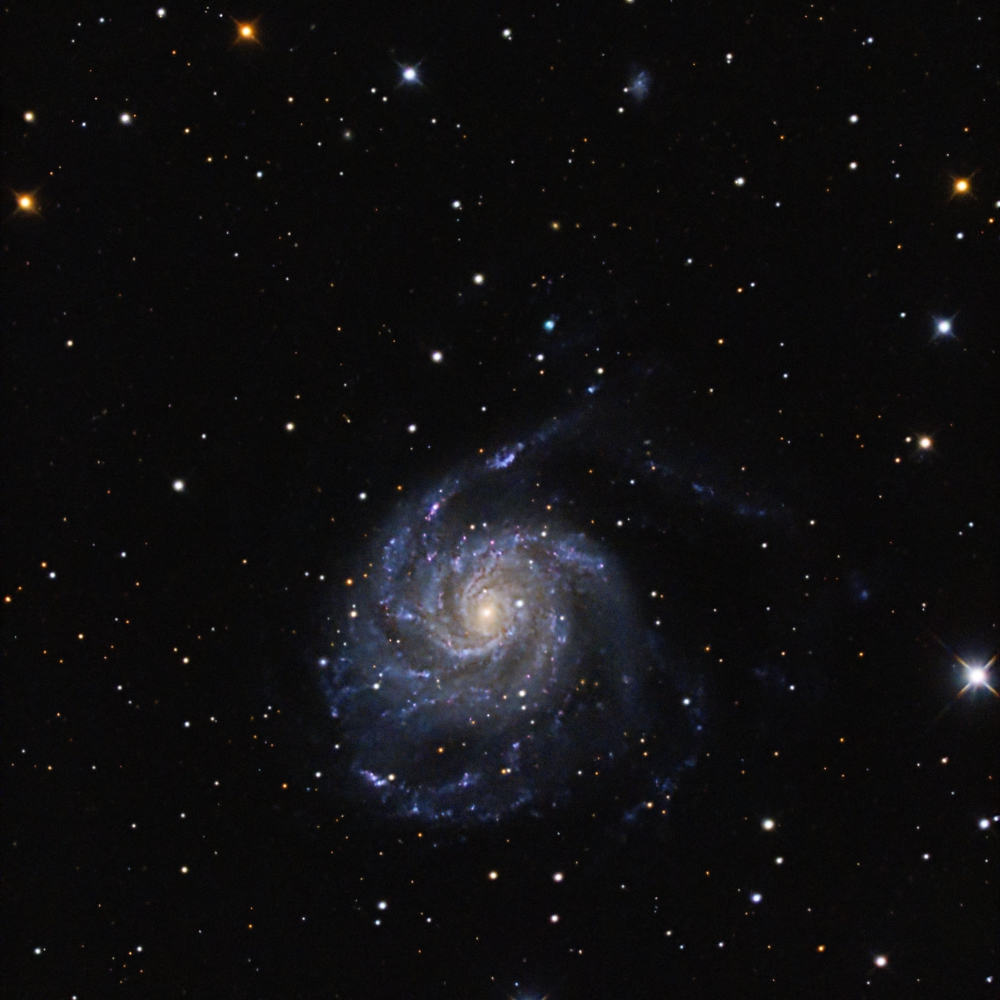
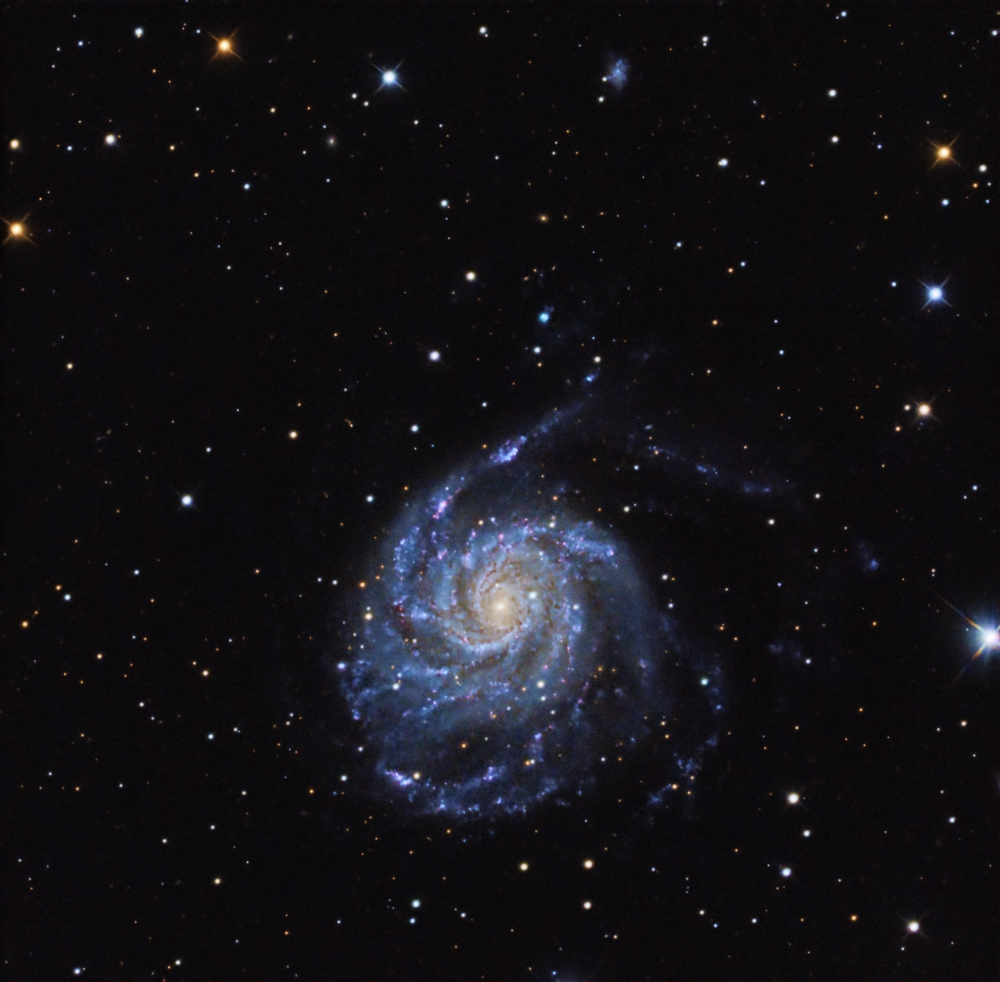
updated m101 fixed indexmobile

diff --git a/indexmobile.html b/indexmobile.html
@@ -26,6 +26,18 @@
         </div>
         -->
         <div class="imageContainer">
+            <img class="preview" src="/images/m101.jpg">
+        </div>
+        <div class="subContainer">
+            <p class="preview-text"><b><a href="images/m101_full.jpg">M101 - Pinwheel Galaxy</a></b><br/><br/>Total Integration Time: <b>6.2 hours</b><br/>Camera: <b>ASI 533MC Pro</b><br/>Focal Length/Ratio: <b>940 f/6.2</b><br/>Mount: <b>Skywatcher HEQ5 Pro</b><br/>Filters: <b>SVBony UVIR Cut</b><br/>Date: <b>5/12/2024-5/15/2024</b></p>
+        </div>
+        <div class="imageContainer">
+            <img class="preview" src="/images/m63.jpg">
+        </div>
+        <div class="subContainer">
+            <p class="preview-text"><b><a href="images/m63_full.jpg">M63 - Sunflower Galaxy</a></b><br/><br/>Total Integration Time: <b>2 hours</b><br/>Camera: <b>ASI 533MC Pro</b><br/>Focal Length/Ratio: <b>940 f/6.2</b><br/>Mount: <b>Skywatcher HEQ5 Pro</b><br/>Filters: <b>SVBony UVIR Cut</b><br/>Date: <b>5/11/2024</b></p>
+        </div>
+        <div class="imageContainer">
             <img class="preview" src="/images/beehive.jpg">
         </div>
         <div class="subContainer">

diff --git a/index.html b/index.html
@@ -34,7 +34,7 @@
             <img class="preview" src="/images/m63.jpg">
         </div>
         <div class="subContainer">
-            <p class="preview-text"><b><a href="images/m101_full.jpg">M101 - Pinwheel Galaxy</a></b><br/><br/>Total Integration Time: <b>3 hours</b><br/>Camera: <b>ASI 533MC Pro</b><br/>Focal Length/Ratio: <b>940 f/6.2</b><br/>Mount: <b>Skywatcher HEQ5 Pro</b><br/>Filters: <b>SVBony UVIR Cut</b><br/>Date: <b>5/12/2024</b></p>
+            <p class="preview-text"><b><a href="images/m101_full.jpg">M101 - Pinwheel Galaxy</a></b><br/><br/>Total Integration Time: <b>6.2 hours</b><br/>Camera: <b>ASI 533MC Pro</b><br/>Focal Length/Ratio: <b>940 f/6.2</b><br/>Mount: <b>Skywatcher HEQ5 Pro</b><br/>Filters: <b>SVBony UVIR Cut</b><br/>Date: <b>5/12/2024-5/15/2024</b></p>
             <p class="preview-text"><b><a href="images/m63_full.jpg">M63 - Sunflower Galaxy</a></b><br/><br/>Total Integration Time: <b>2 hours</b><br/>Camera: <b>ASI 533MC Pro</b><br/>Focal Length/Ratio: <b>940 f/6.2</b><br/>Mount: <b>Skywatcher HEQ5 Pro</b><br/>Filters: <b>SVBony UVIR Cut</b><br/>Date: <b>5/11/2024</b></p>
         </div>
         <div class="imageContainer">
